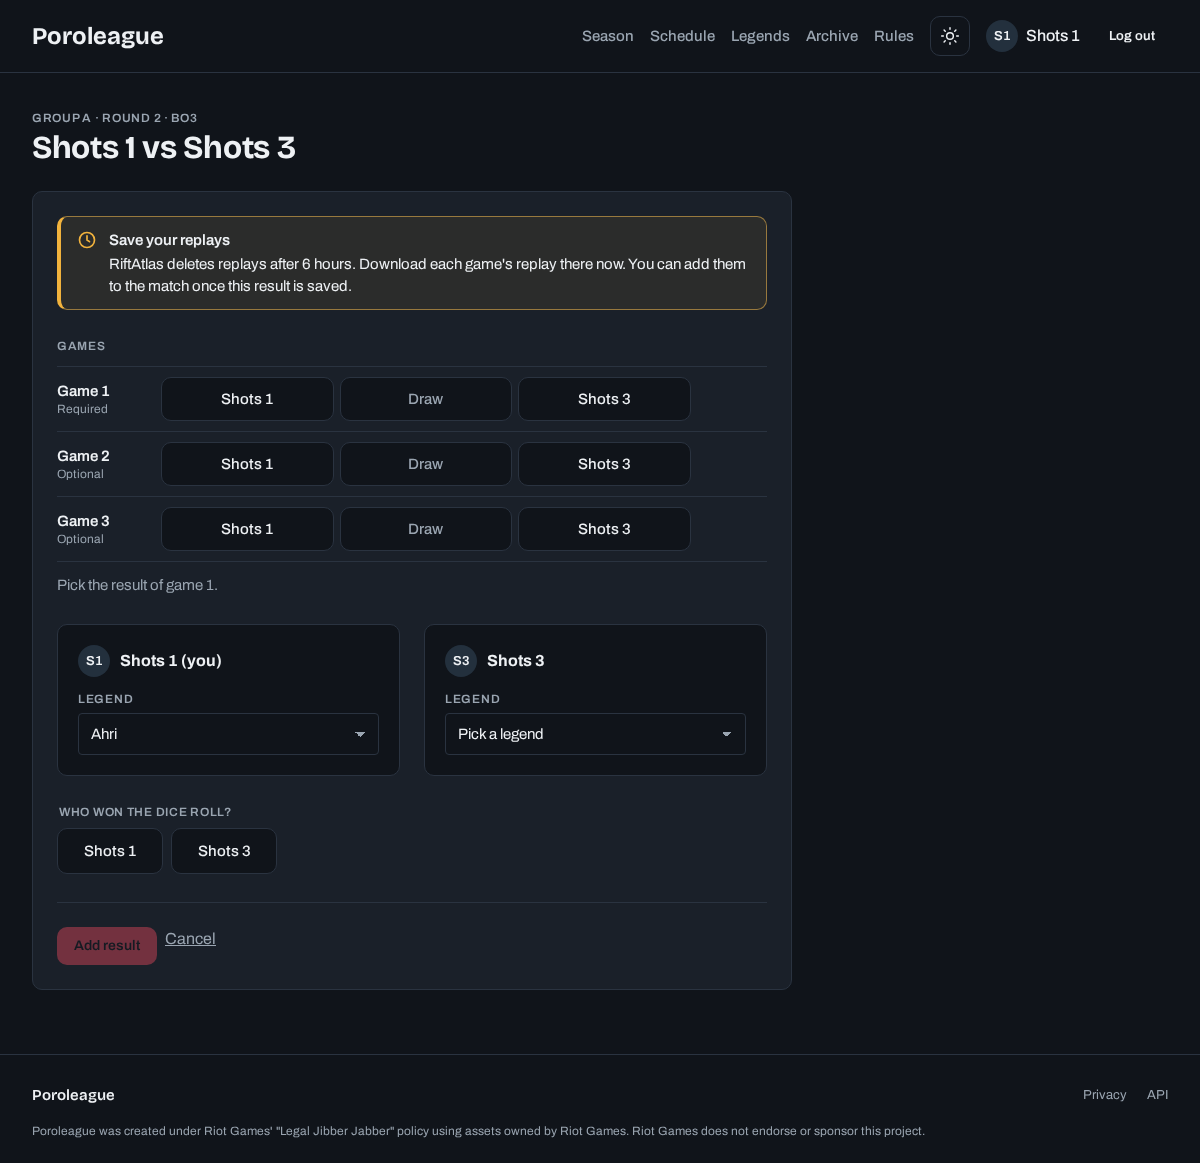
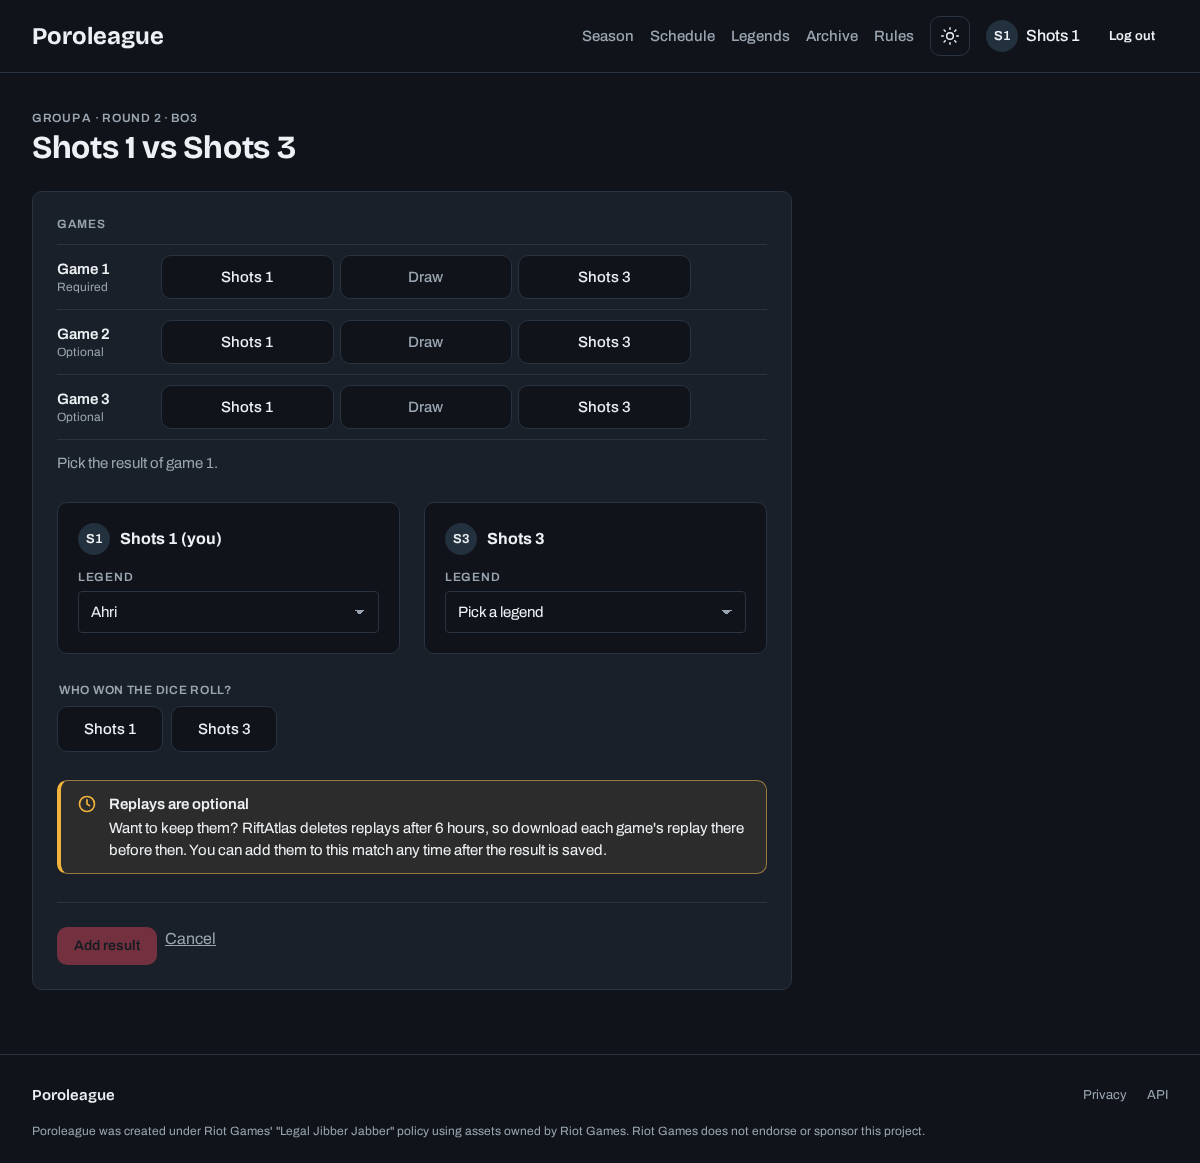
feat(replays): soften the report-form replay callout and move it below the form fields

diff --git a/src/routes/seasons/[slug]/matches/[id]/+page.svelte b/src/routes/seasons/[slug]/matches/[id]/+page.svelte
@@ -118,28 +118,6 @@
 			bind:this={reportForm}
 			onchange={() => changes++}
 		>
-			<div class="pb-callout" role="note">
-				<span class="pb-callout-ico">
-					<svg
-						width="20"
-						height="20"
-						viewBox="0 0 24 24"
-						fill="none"
-						stroke="currentColor"
-						stroke-width="2"
-						stroke-linecap="round"
-						stroke-linejoin="round"
-						aria-hidden="true"><path d="M12 7v5l3 2M12 21a9 9 0 1 0 0-18 9 9 0 0 0 0 18z" /></svg
-					>
-				</span>
-				<div class="pb-callout-body">
-					<strong class="pb-callout-title">Save your replays</strong>
-					<span>
-						RiftAtlas deletes replays after 6 hours. Download each game's replay there now. You can
-						add them to the match once this result is saved.
-					</span>
-				</div>
-			</div>
 			<section class="games" aria-labelledby="games-h">
 				<span id="games-h" class="eyebrow">Games</span>
 				<GameRows
@@ -194,6 +172,30 @@
 				{/each}
 			</fieldset>
 			{#if errors.dice}<p class="pb-hint is-error" role="alert">{errors.dice}</p>{/if}
+
+			<div class="pb-callout" role="note">
+				<span class="pb-callout-ico">
+					<svg
+						width="20"
+						height="20"
+						viewBox="0 0 24 24"
+						fill="none"
+						stroke="currentColor"
+						stroke-width="2"
+						stroke-linecap="round"
+						stroke-linejoin="round"
+						aria-hidden="true"><path d="M12 7v5l3 2M12 21a9 9 0 1 0 0-18 9 9 0 0 0 0 18z" /></svg
+					>
+				</span>
+				<div class="pb-callout-body">
+					<strong class="pb-callout-title">Replays are optional</strong>
+					<span>
+						Want to keep them? RiftAtlas deletes replays after 6 hours, so download each game's
+						replay there before then. You can add them to this match any time after the result is
+						saved.
+					</span>
+				</div>
+			</div>
 
 			<div class="actions action-bar">
 				<ConfirmButton

diff --git a/e2e/replays.spec.ts b/e2e/replays.spec.ts
@@ -364,9 +364,9 @@ test('the report form reminds players to save the replay', async ({ browser }) =
 	const page = await browser.newPage(as(player('replays', 1)));
 	await page.goto(`/seasons/${slug}/matches/${open}`);
 	const note = page.getByRole('note');
-	await expect(note.getByText('Save your replays', { exact: true })).toBeVisible();
+	await expect(note.getByText('Replays are optional', { exact: true })).toBeVisible();
 	await expect(note).toContainText(
-		"RiftAtlas deletes replays after 6 hours. Download each game's replay there now. You can add them to the match once this result is saved."
+		"Want to keep them? RiftAtlas deletes replays after 6 hours, so download each game's replay there before then. You can add them to this match any time after the result is saved."
 	);
 	await expect(replays(page)).toHaveCount(0);
 });
